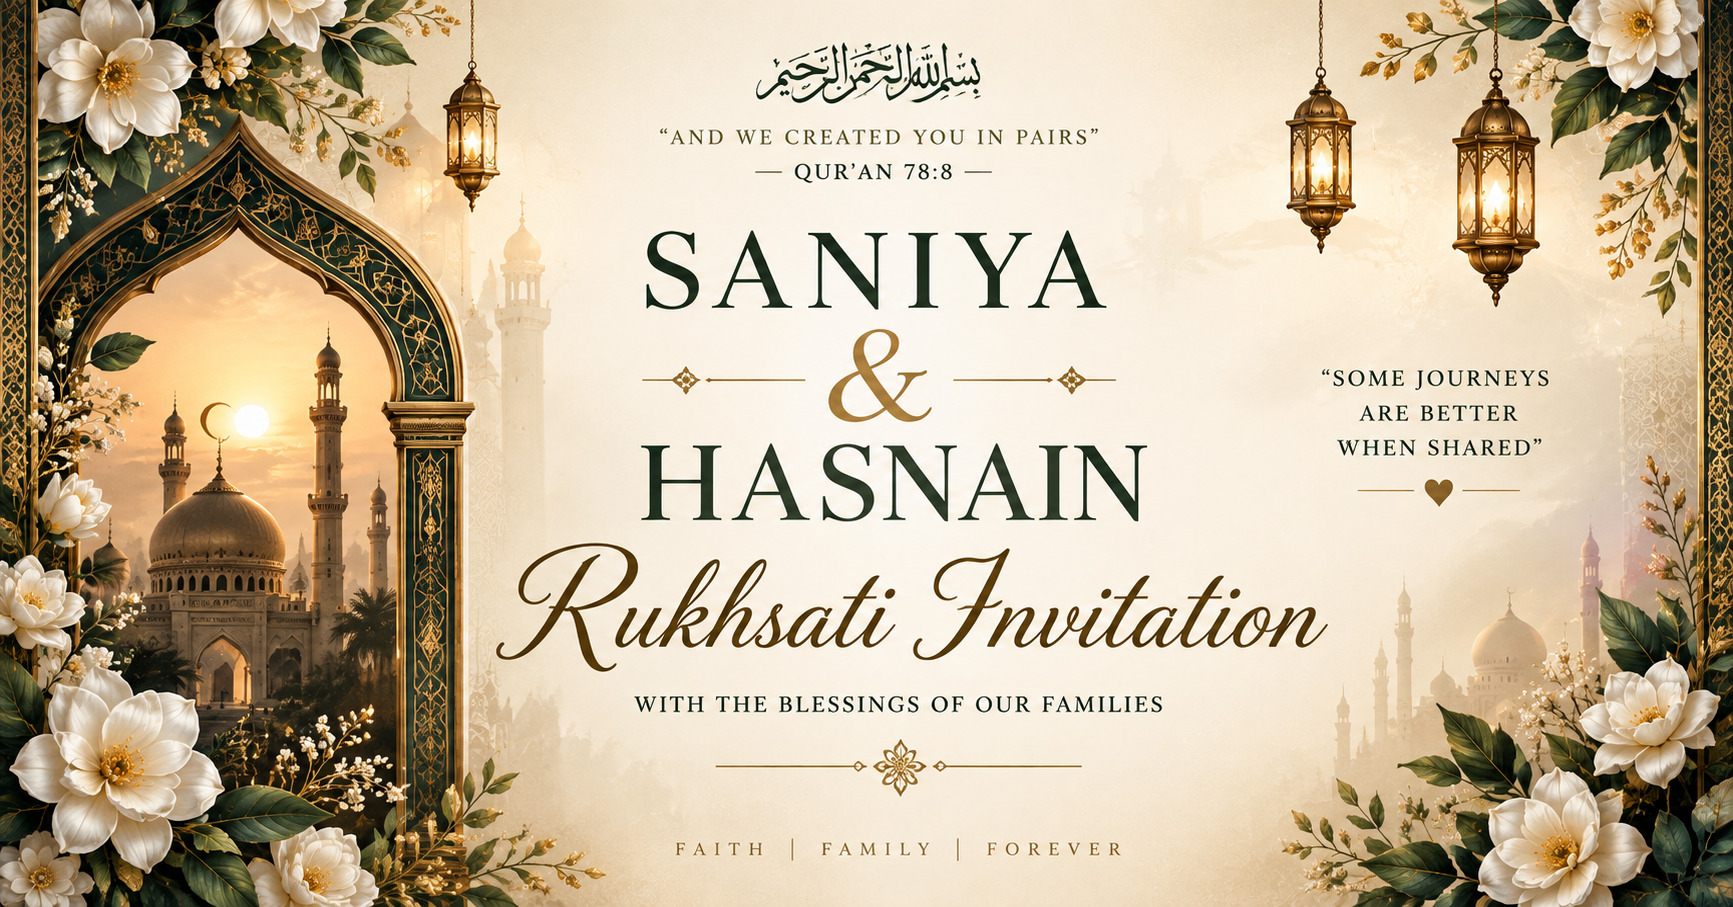
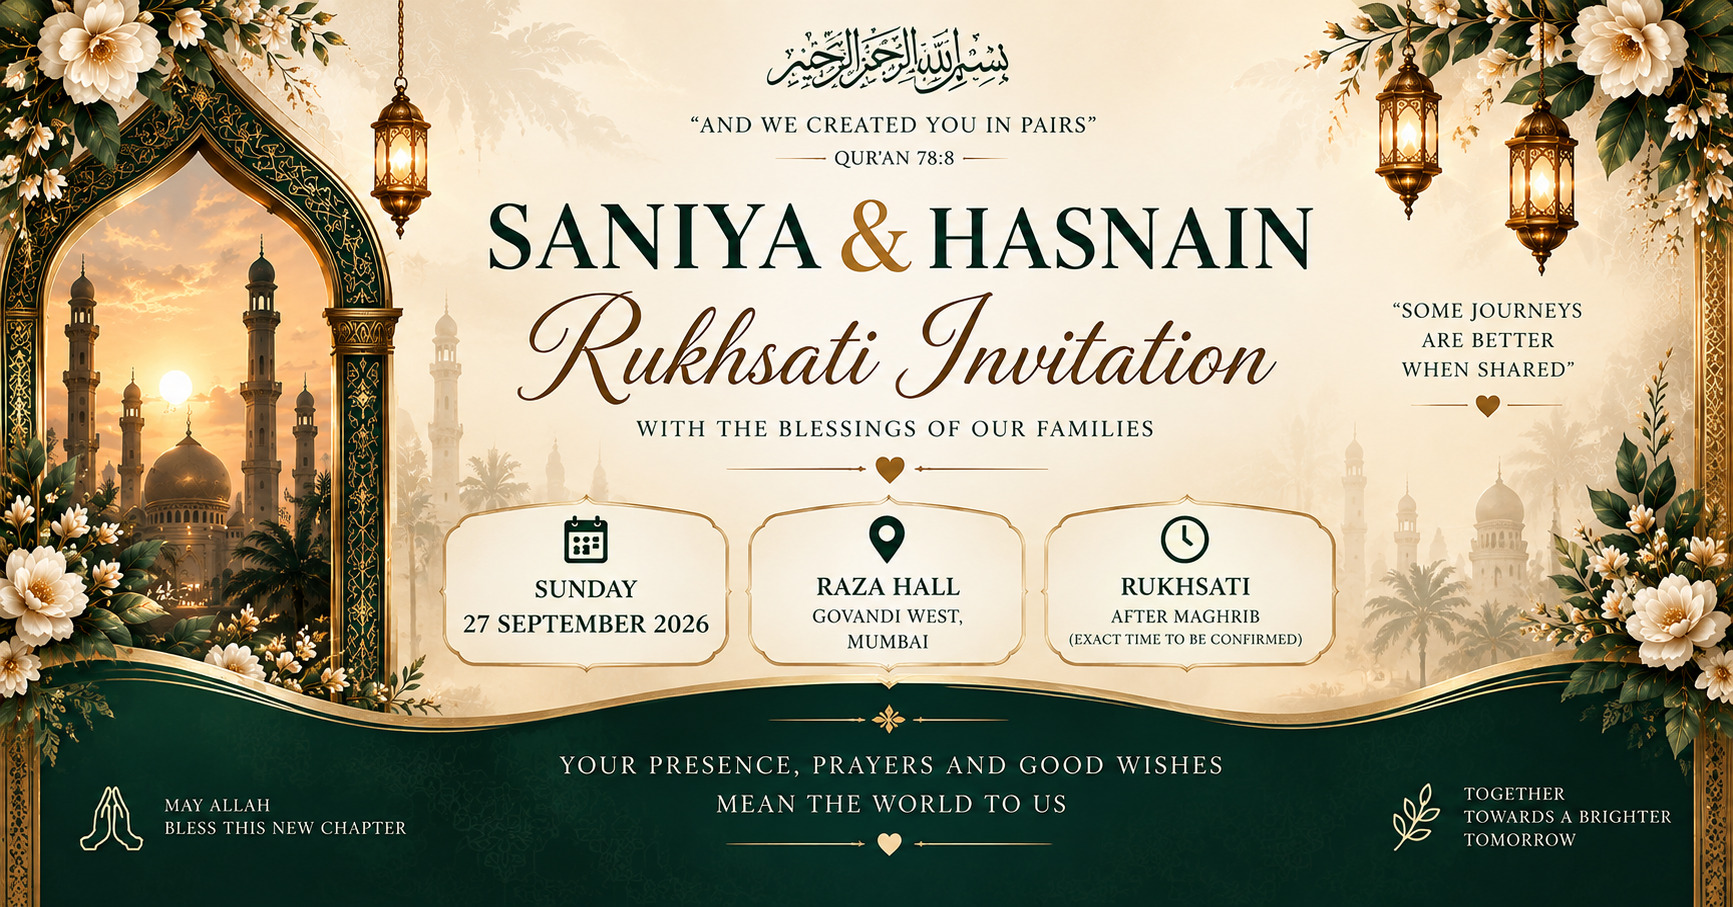
Updated Card Lenght

diff --git a/app/layout.tsx b/app/layout.tsx
@@ -1,19 +1,21 @@
 import type { Metadata, Viewport } from 'next';
 import './invitation.css';
-const SITE_URL = "https://rukhsati-invitation.vercel.app";
+
+const SITE_URL = 'https://rukhsati-invitation.vercel.app';
+
 export const metadata: Metadata = {
   metadataBase: new URL(SITE_URL),
 
   title: 'SANIYA & HASNAIN — Rukhsati',
 
   description:
-    'Rukhsati invitation for Saniya Nadeem Sayyed and Hasnain Furqan Saifi — 27 September 2026, Raza Hall, Govandi West, Mumbai.',
+    'You are warmly invited to the Rukhsati of Saniya Nadeem Sayyed and Hasnain Furqan Saifi on 27 September 2026 at Raza Hall, Govandi West, Mumbai.',
 
   openGraph: {
     title: 'SANIYA & HASNAIN — Rukhsati',
 
     description:
-      'Rukhsati invitation for Saniya Nadeem Sayyed and Hasnain Furqan Saifi.',
+      'Rukhsati of Saniya Nadeem Sayyed & Hasnain Furqan Saifi • 27 September 2026 • Raza Hall, Govandi West, Mumbai.',
 
     url: SITE_URL,
     siteName: 'SANIYA & HASNAIN — Rukhsati',
@@ -24,16 +26,19 @@ export const metadata: Metadata = {
         url: `${SITE_URL}/og-image.jpg`,
         width: 1200,
         height: 630,
-        alt: 'SANIYA & HASNAIN — Rukhsati Invitation',
+        alt: 'Saniya & Hasnain — Rukhsati Invitation',
       },
     ],
   },
 
   twitter: {
     card: 'summary_large_image',
+
     title: 'SANIYA & HASNAIN — Rukhsati',
+
     description:
-      'Rukhsati invitation for Saniya Nadeem Sayyed and Hasnain Furqan Saifi.',
+      '27 September 2026 • Raza Hall, Govandi West, Mumbai',
+
     images: [`${SITE_URL}/og-image.jpg`],
   },
 };
@@ -45,6 +50,14 @@ export const viewport: Viewport = {
   themeColor: '#041F1C',
 };
 
-export default function RootLayout({ children }: Readonly<{ children: React.ReactNode }>) {
-  return <html lang="en"><body>{children}</body></html>;
+export default function RootLayout({
+  children,
+}: Readonly<{
+  children: React.ReactNode;
+}>) {
+  return (
+    <html lang="en">
+      <body>{children}</body>
+    </html>
+  );
 }
